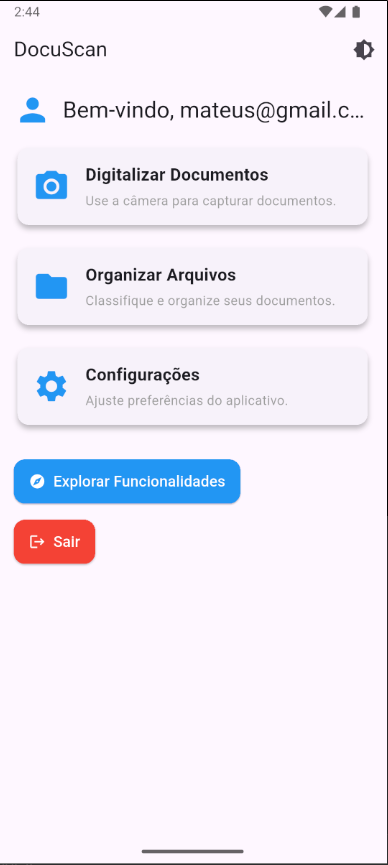
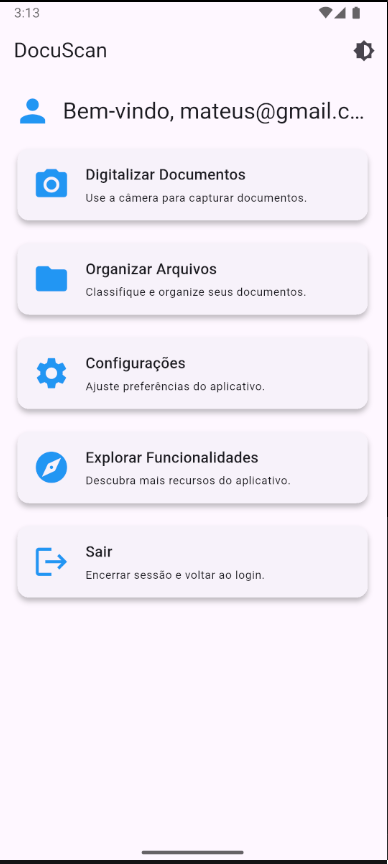
Readme atualizado, botoes da tela inicial atualizados

diff --git a/lib/screens/home_sceen.dart b/lib/screens/home_sceen.dart
@@ -1,6 +1,5 @@
 import 'package:flutter/material.dart';
 import 'package:mobatv04/widgets/custom_card.dart';
-import 'package:mobatv04/widgets/custom_button.dart';
 import '../models/user_model.dart';
 import 'login_screen.dart';
 import 'package:shared_preferences/shared_preferences.dart';
@@ -57,13 +56,13 @@ class HomeScreen extends StatelessWidget {
               ],
             ),
             const SizedBox(height: 16),
-            // Cards de funcionalidades
+            // CustomCards clicáveis
             CustomCard(
               title: 'Digitalizar Documentos',
               subtitle: 'Use a câmera para capturar documentos.',
               icon: Icons.camera_alt,
               onTap: () {
-                // Sem funcionalidade implementada
+                // Ação para digitalizar documentos
               },
             ),
             const SizedBox(height: 16),
@@ -72,7 +71,7 @@ class HomeScreen extends StatelessWidget {
               subtitle: 'Classifique e organize seus documentos.',
               icon: Icons.folder,
               onTap: () {
-                // Sem funcionalidade implementada
+                // Ação para organizar arquivos
               },
             ),
             const SizedBox(height: 16),
@@ -81,25 +80,24 @@ class HomeScreen extends StatelessWidget {
               subtitle: 'Ajuste preferências do aplicativo.',
               icon: Icons.settings,
               onTap: () {
-                // Sem funcionalidade implementada
-              },
-            ),
-            const SizedBox(height: 32),
-            // Botões de ação
-            CustomButton(
-              text: 'Explorar Funcionalidades',
-              icon: Icons.explore,
-              onPressed: () {
-                // Sem funcionalidade implementada
+                // Ação para abrir configurações
               },
             ),
             const SizedBox(height: 16),
-            // Botão de logout usando CustomButton
-            CustomButton(
-              text: 'Sair',
+            CustomCard(
+              title: 'Explorar Funcionalidades',
+              subtitle: 'Descubra mais recursos do aplicativo.',
+              icon: Icons.explore,
+              onTap: () {
+                // Ação para explorar funcionalidades
+              },
+            ),
+            const SizedBox(height: 16),
+            CustomCard(
+              title: 'Sair',
+              subtitle: 'Encerrar sessão e voltar ao login.',
               icon: Icons.logout,
-              color: Colors.red,
-              onPressed: () => _logout(context), // Chama a função de logout
+              onTap: () => _logout(context), // Chama a função de logout
             ),
           ],
         ),

diff --git a/lib/widgets/custom_card.dart b/lib/widgets/custom_card.dart
@@ -4,20 +4,20 @@ class CustomCard extends StatelessWidget {
   final String title;
   final String subtitle;
   final IconData icon;
-  final VoidCallback? onTap;
+  final VoidCallback onTap; // Função para clique
 
   const CustomCard({
-    Key? key,
+    super.key,
     required this.title,
     required this.subtitle,
     required this.icon,
-    this.onTap,
-  }) : super(key: key);
+    required this.onTap,
+  });
 
   @override
   Widget build(BuildContext context) {
     return GestureDetector(
-      onTap: onTap,
+      onTap: onTap, // Torna o card clicável
       child: Card(
         elevation: 4,
         shape: RoundedRectangleBorder(
@@ -29,25 +29,21 @@ class CustomCard extends StatelessWidget {
             children: [
               Icon(icon, size: 40, color: Colors.blue),
               const SizedBox(width: 16),
-              Column(
-                crossAxisAlignment: CrossAxisAlignment.start,
-                children: [
-                  Text(
-                    title,
-                    style: const TextStyle(
-                      fontSize: 18,
-                      fontWeight: FontWeight.bold,
+              Expanded(
+                child: Column(
+                  crossAxisAlignment: CrossAxisAlignment.start,
+                  children: [
+                    Text(
+                      title,
+                      style: Theme.of(context).textTheme.titleMedium,
                     ),
-                  ),
-                  const SizedBox(height: 4),
-                  Text(
-                    subtitle,
-                    style: const TextStyle(
-                      fontSize: 14,
-                      color: Colors.grey,
+                    const SizedBox(height: 4),
+                    Text(
+                      subtitle,
+                      style: Theme.of(context).textTheme.bodySmall,
                     ),
-                  ),
-                ],
+                  ],
+                ),
               ),
             ],
           ),
